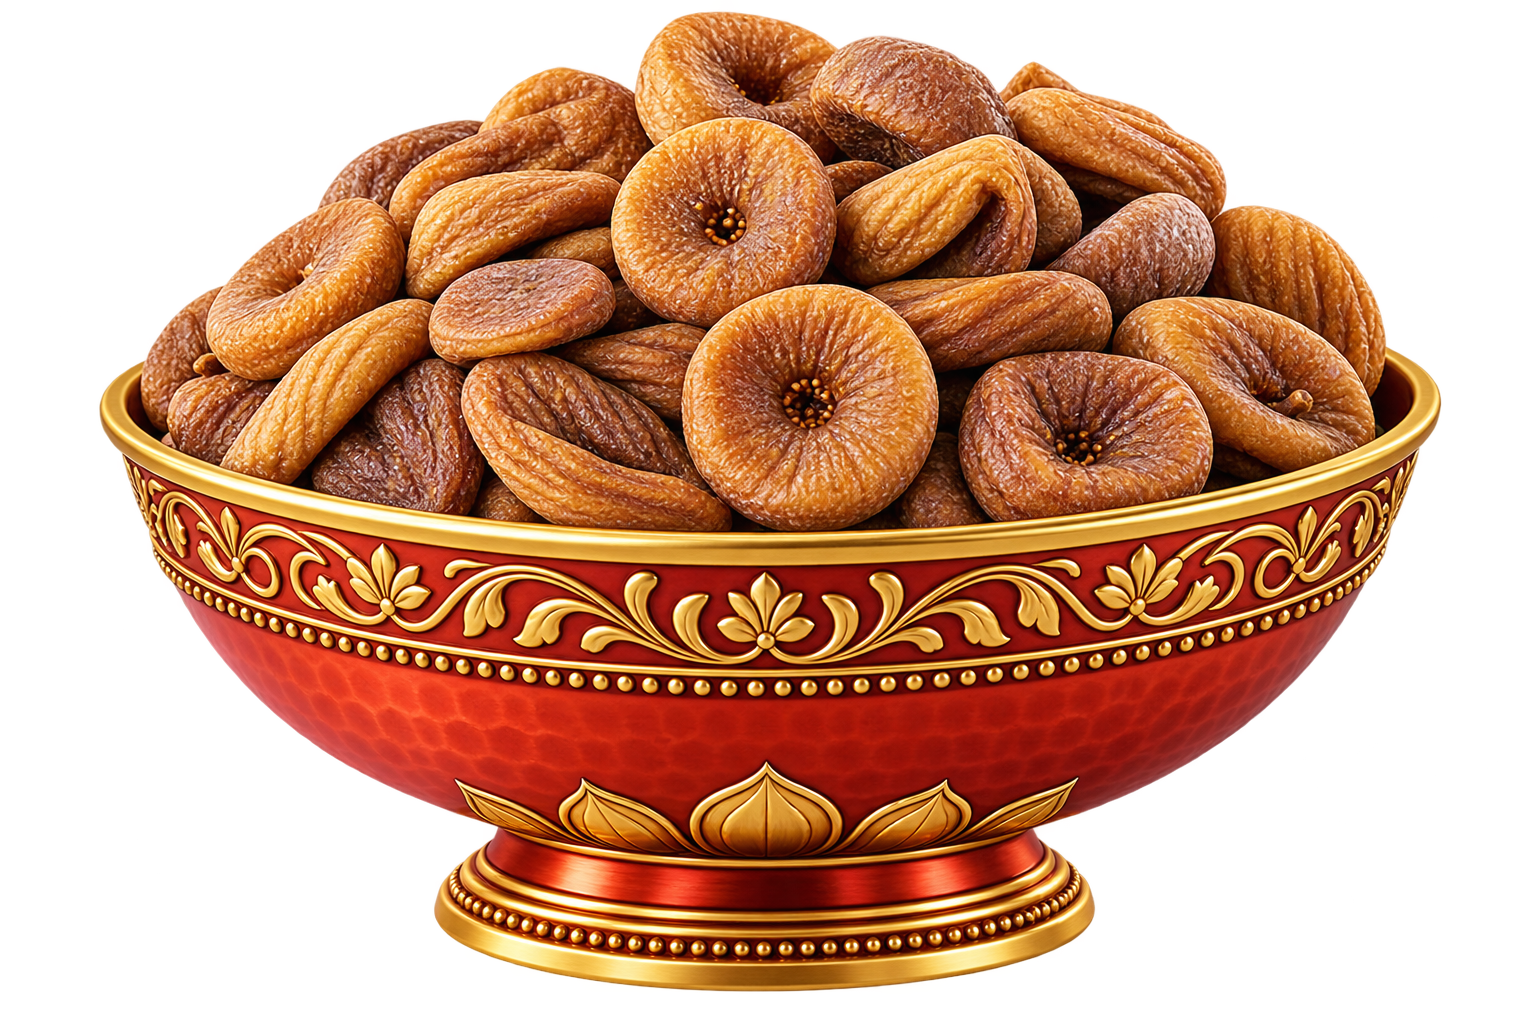
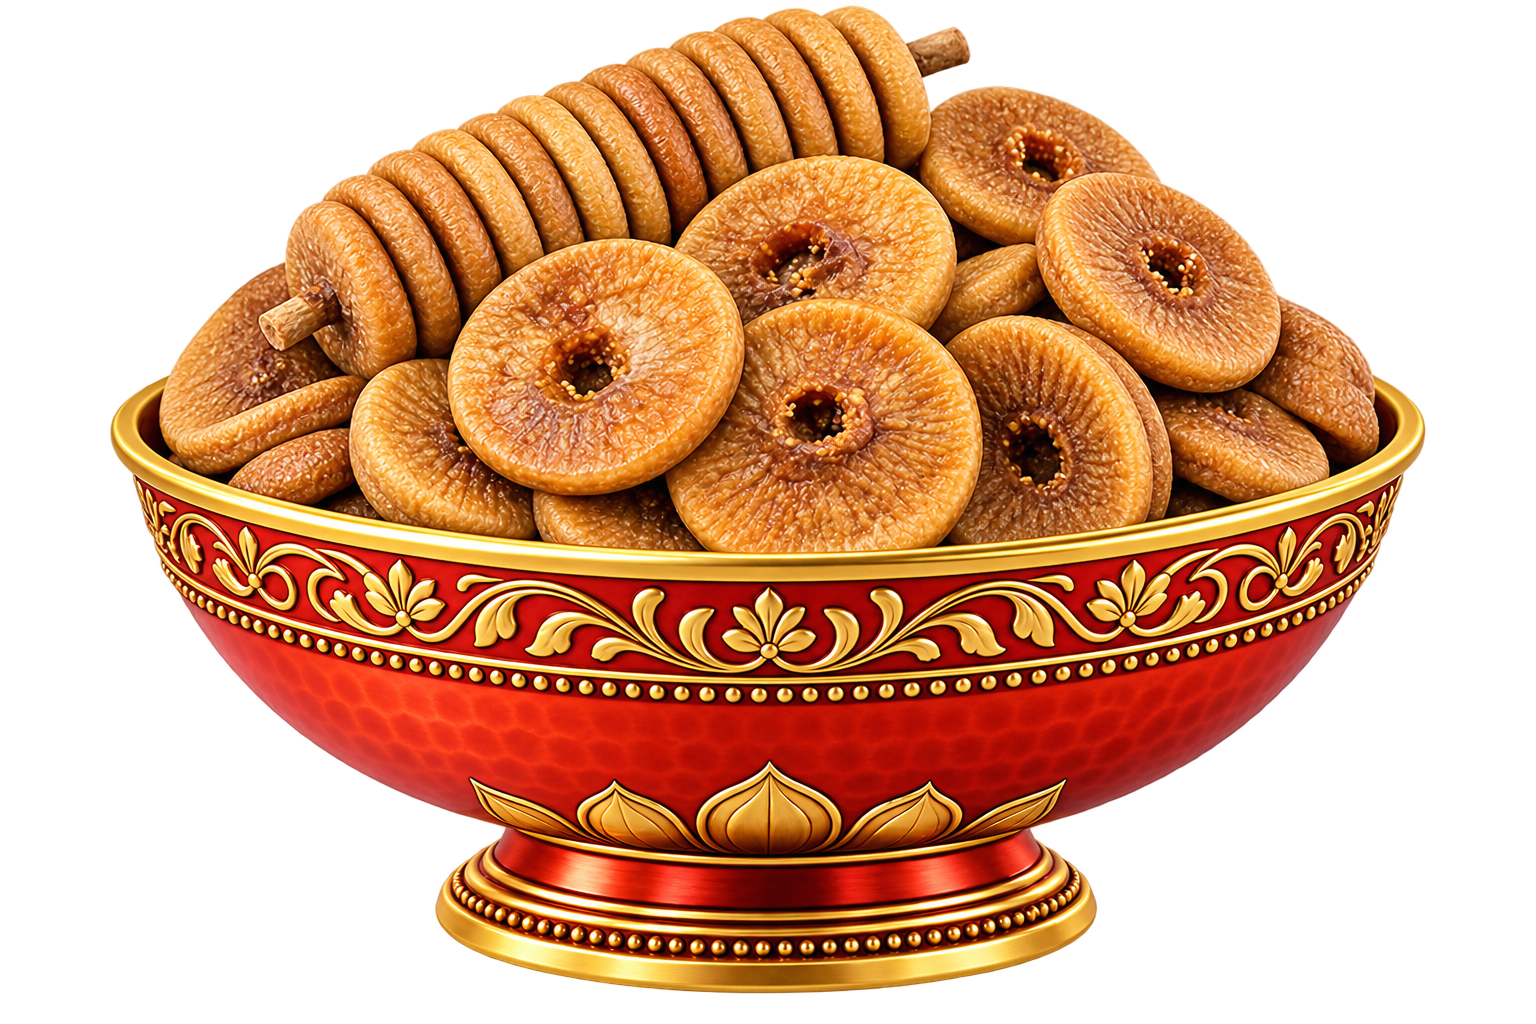
Update project

diff --git a/src/pages/Contact.jsx b/src/pages/Contact.jsx
@@ -1,4 +1,6 @@
 import { useState } from "react";
+import { Link } from "react-router-dom";
+
 import emailjs from "@emailjs/browser";
 import { motion } from "framer-motion";
 import {
@@ -20,6 +22,8 @@ const GREEN_2 = "#0E2E20";
 const GOLD = "#C89B3C";
 const GOLD_LIGHT = "#E4C368";
 const CREAM = "#F4EEE0";
+
+const MotionLink = motion(Link);
 
 const fadeUp = {
   hidden: { opacity: 0, y: 24 },
@@ -53,44 +57,42 @@ const Field = ({ as: Tag = "input", className = "", ...props }) => (
   />
 );
 
-// ✅ FIX: Component function now wraps everything — useState & handleSubmit
-//         must live INSIDE the component, not at module scope.
 const Contact = () => {
   const [status, setStatus] = useState("idle");
 
- const handleSubmit = async (e) => {
-  e.preventDefault();
-  setStatus("sending");
+  const handleSubmit = async (e) => {
+    e.preventDefault();
+    setStatus("sending");
 
-  const form = e.currentTarget;
+    const form = e.currentTarget;
 
-  try {
-    const response = await emailjs.sendForm(
-      "service_fjuvpiv",
-      "template_13no2ik",
-      form,
-      {
-        publicKey: "5gEv7BVsDTnN3b8Uy",
-      }
-    );
+    try {
+      const response = await emailjs.sendForm(
+        "service_fjuvpiv",
+        "template_13no2ik",
+        form,
+        {
+          publicKey: "5gEv7BVsDTnN3b8Uy",
+        }
+      );
 
-    console.log("Email sent:", response.status, response.text);
+      console.log("Email sent:", response.status, response.text);
 
-    setStatus("sent");
-    form.reset();
+      setStatus("sent");
+      form.reset();
 
-    setTimeout(() => {
-      setStatus("idle");
-    }, 3500);
-  } catch (error) {
-    console.error("EmailJS Error:", error);
-    setStatus("error");
+      setTimeout(() => {
+        setStatus("idle");
+      }, 3500);
+    } catch (error) {
+      console.error("EmailJS Error:", error);
+      setStatus("error");
 
-    setTimeout(() => {
-      setStatus("idle");
-    }, 4000);
-  }
-};
+      setTimeout(() => {
+        setStatus("idle");
+      }, 4000);
+    }
+  };
 
   return (
     <>
@@ -102,7 +104,6 @@ const Contact = () => {
           className="absolute inset-0 -z-30 h-full w-full object-cover"
         />
 
-        {/* Directional gradient */}
         <div
           className="absolute inset-0 -z-20"
           style={{
@@ -110,7 +111,6 @@ const Contact = () => {
           }}
         />
 
-        {/* Top/bottom vignette */}
         <div
           className="absolute inset-0 -z-10"
           style={{
@@ -118,7 +118,6 @@ const Contact = () => {
           }}
         />
 
-        {/* Gold glow */}
         <div
           className="pointer-events-none absolute -left-24 top-1/2 -z-10 h-[420px] w-[420px] -translate-y-1/2 rounded-full blur-3xl"
           style={{ backgroundColor: `${GOLD}22` }}
@@ -243,8 +242,6 @@ const Contact = () => {
               <Field name="phone" placeholder="Phone Number" />
             </div>
 
-            {/* ✅ FIX: Removed redundant first item from subjects array.
-                       Using a proper disabled placeholder <option> instead. */}
             <div className="relative mt-4">
               <select
                 required
@@ -293,7 +290,6 @@ const Contact = () => {
               <ArrowRight size={16} className="transition-transform group-hover:translate-x-1" />
             </motion.button>
 
-            {/* ✅ ADDED: Visible feedback messages below button */}
             {status === "sent" && (
               <p className="mt-3 text-sm font-medium" style={{ color: GREEN }}>
                 Thank you! We'll get back to you shortly.
@@ -351,7 +347,7 @@ const Contact = () => {
               </div>
             </div>
 
-            {/* WhatsApp quick-contact strip */}
+            {/* WhatsApp strip */}
             <a
               href={`https://wa.me/${(company?.whatsapp ?? "919000001026").replace(/[^\d]/g, "")}`}
               target="_blank"
@@ -380,14 +376,14 @@ const Contact = () => {
             className="relative overflow-hidden rounded-2xl shadow-sm"
             style={{ height: 420 }}
           >
-          <iframe
-  title="Mydex map"
-  className="absolute inset-0 h-full w-full border-0"
-  src="https://www.google.com/maps/embed?pb=!1m18!1m12!1m3!1d3807.741322865268!2d78.47399229999999!3d17.376176!2m3!1f0!2f0!3f0!3m2!1i1024!2i768!4f13.1!3m3!1m2!1s0x3bcb9780be57533b%3A0xc4dba7a4fdbef564!2s12%2C%20Siddiamber%20Bazar%2C%20Begum%20Bazar%2C%20Afzal%20Gunj%2C%20Hyderabad%2C%20Telangana%20500012!5e0!3m2!1sen!2sin!4v1786618889554!5m2!1sen!2sin"
-  loading="lazy"
-  allowFullScreen
-  referrerPolicy="strict-origin-when-cross-origin"
-/>
+            <iframe
+              title="Mydex map"
+              className="absolute inset-0 h-full w-full border-0"
+              src="https://www.google.com/maps/embed?pb=!1m18!1m12!1m3!1d3807.741322865268!2d78.47399229999999!3d17.376176!2m3!1f0!2f0!3f0!3m2!1i1024!2i768!4f13.1!3m3!1m2!1s0x3bcb9780be57533b%3A0xc4dba7a4fdbef564!2s12%2C%20Siddiamber%20Bazar%2C%20Begum%20Bazar%2C%20Afzal%20Gunj%2C%20Hyderabad%2C%20Telangana%20500012!5e0!3m2!1sen!2sin!4v1786618889554!5m2!1sen!2sin"
+              loading="lazy"
+              allowFullScreen
+              referrerPolicy="strict-origin-when-cross-origin"
+            />
             <motion.div
               initial={{ opacity: 0, x: -24 }}
               whileInView={{ opacity: 1, x: 0 }}
@@ -448,8 +444,9 @@ const Contact = () => {
             </div>
           </div>
 
-          <motion.a
-            href="/get-quote"
+          {/* ✅ FIXED: motion(Link) instead of motion.a — no page reload, no 404 */}
+          <MotionLink
+            to="/get-quote"
             whileHover={{ scale: 1.05 }}
             whileTap={{ scale: 0.96 }}
             className="group inline-flex shrink-0 items-center gap-2 rounded-md px-7 py-3 text-xs font-semibold uppercase tracking-wider text-white"
@@ -457,7 +454,7 @@ const Contact = () => {
           >
             Get a Quote
             <ArrowRight size={16} className="transition-transform group-hover:translate-x-1" />
-          </motion.a>
+          </MotionLink>
         </motion.div>
       </section>
     </>

diff --git a/src/components/Footer.jsx b/src/components/Footer.jsx
@@ -1,37 +1,27 @@
-import { FaEnvelope, FaFacebookF, FaInstagram, FaLinkedinIn, FaPhoneAlt, FaStar } from "react-icons/fa";
+import { FaDownload, FaEnvelope, FaFacebookF, FaInstagram, FaLinkedinIn, FaPhoneAlt, FaStar } from "react-icons/fa";
 import { Link } from "react-router-dom";
 import { motion } from "framer-motion";
 import { company, productCategories } from "../data/siteData";
 
-/* Local HD background image for the footer — replace with your actual asset */
 import footerBg from "../assets/images/footer-bg.png";
-/* Local logo image — replace with your actual logo asset */
 import logo from "../assets/logo.png";
 
-/* 🔧 Social links: Facebook & LinkedIn are the real, live company links.
-   Instagram & the mail icon are left as sensible placeholders — swap
-   Instagram's "#" for the real profile URL whenever you have it. The
-   LinkedIn URL below is the clean profile link (the one you sent was a
-   linkedin.com/authwall redirect with session tracking params, which
-   isn't reliable to hardcode — this is the actual destination it points
-   to). */
 const socialLinks = [
   { Icon: FaFacebookF, href: "https://www.facebook.com/people/Mydex-international/61592850341942/", external: true },
   { Icon: FaLinkedinIn, href: "https://www.linkedin.com/in/mydex-international-434b0b428", external: true },
- {
-  Icon: FaInstagram,
-  href: "https://www.instagram.com/mydex_international?igsh=MWpzYTVyb2lwcmppYw==",
-  external: true,
-},
   {
-  Icon: FaEnvelope,
-  href: "/contact",
-  external: false,
-},
+    Icon: FaInstagram,
+    href: "https://www.instagram.com/mydex_international?igsh=MWpzYTVyb2lwcmppYw==",
+    external: true,
+  },
+  {
+    Icon: FaEnvelope,
+    href: "/contact",
+    external: false,
+  },
 ];
 
 const Footer = () => {
-  // Animation variants
   const containerVariants = {
     hidden: { opacity: 0 },
     visible: {
@@ -123,9 +113,6 @@ const Footer = () => {
         backgroundAttachment: "fixed",
       }}
     >
-      {/* "EST. 1956" watermark — huge, faint, heritage-marking text sitting
-          in the empty background space behind the footer content. Purely
-          decorative, so it's aria-hidden and ignores pointer events. */}
       <motion.p
         aria-hidden="true"
         initial={{ opacity: 0 }}
@@ -139,6 +126,7 @@ const Footer = () => {
 
       {/* Main Footer Content */}
       <div className="container-lux relative z-10 grid gap-10 px-4 py-16 md:grid-cols-2 md:px-8 lg:grid-cols-5">
+
         {/* Brand Section */}
         <motion.div
           className="lg:col-span-2"
@@ -173,7 +161,6 @@ const Footer = () => {
             Global importer & exporter of premium dry fruits, spices, herbs, seeds, pulses and agro commodities.
           </motion.p>
 
-          {/* 5-star rating badge — quick trust signal under the brand blurb */}
           <motion.div
             className="mt-4 flex items-center gap-2"
             variants={linkVariants}
@@ -252,6 +239,28 @@ const Footer = () => {
                 </Link>
               </motion.div>
             ))}
+
+            {/* ✅ Download Brochure Button */}
+            <motion.div
+              variants={linkVariants}
+              custom={5}
+              initial="hidden"
+              whileInView="visible"
+              viewport={{ once: true, amount: 0.3 }}
+              className="pt-2"
+            >
+              <motion.a
+                href="/brochure.pdf"
+                download="Mydex-International-Brochure.pdf"
+                whileHover={{ scale: 1.03 }}
+                whileTap={{ scale: 0.97 }}
+                className="inline-flex items-center gap-2 rounded border border-mydex-gold px-4 py-2 text-xs font-semibold uppercase tracking-wider text-mydex-gold transition hover:bg-mydex-gold hover:text-mydex-green"
+              >
+                <FaDownload size={11} />
+                Download Brochure
+              </motion.a>
+            </motion.div>
+
           </motion.div>
         </motion.div>
 
@@ -374,7 +383,7 @@ const Footer = () => {
         </motion.div>
       </div>
 
-      {/* Bottom Section - Copyright & Credits */}
+      {/* Bottom Section */}
       <motion.div
         className="relative z-10 border-t border-white/10 px-4 py-4 text-xs text-white/60 md:px-8"
         initial={{ opacity: 0 }}

diff --git a/src/pages/AboutPages.jsx b/src/pages/AboutPages.jsx
@@ -540,9 +540,9 @@ export const Overview = () => (
               whileInView={{ opacity: 1, scale: 1 }}
               viewport={{ once: true, amount: 0.6 }}
               transition={{ duration: 0.6, delay: 0.6, ease: "easeOut" }}
-              className="absolute -bottom-2 left-1/2 z-30 flex h-24 w-24 -translate-x-1/2 flex-col items-center justify-center rounded-full border border-mydex-gold bg-mydex-green text-center text-[10px] uppercase tracking-widest text-mydex-gold shadow-gold leading-snug"
+              // className="absolute -bottom-2 left-1/2 z-30 flex h-24 w-24 -translate-x-1/2 flex-col items-center justify-center rounded-full border border-mydex-gold bg-mydex-green text-center text-[10px] uppercase tracking-widest text-mydex-gold shadow-gold leading-snug"
             >
-              Est.<br />1956<br />Unjha
+          
             </motion.div>
 
             {/* 🆕 Teeno stat tags ab ek row me, image ke neeche */}
@@ -597,7 +597,7 @@ export const Overview = () => (
                 },
                {
   label: "Hyderabad Office — Est. 1990",
-  desc: "Established our Hyderabad office in 1990, strengthening our business presence and expanding our operations in the Pan Indian markets and Every of India.",
+  desc: "Established our Hyderabad office in 1990, strengthening our business presence and expanding our operations in the Pan Indian markets and Every edge of India.",
 },
 
  {
@@ -886,9 +886,9 @@ export const GlobalNetwork = () => (
         <div className="grid gap-6 md:grid-cols-4">
           {[
             { n: 30,   s: "+", l: "Countries Served" },
-            { n: 1000, s: "+", l: "Happy Clients" },
-            { n: 500,  s: "+", l: "Products Exported" },
-            { n: 20,   s: "+", l: "Years Experience" },
+            { n: 470, s: "+", l: "Happy Clients" },
+            { n: 72,  s: "+", l: "Products Exported" },
+            { n: 70,   s: "+", l: "Years Experience" },
           ].map((x) => (
             <div key={x.l} className="rounded-xl bg-mydex-green p-6 text-center text-white">
               <p className="font-serif text-4xl text-mydex-gold">

diff --git a/src/pages/GetQuote.jsx b/src/pages/GetQuote.jsx
@@ -4,6 +4,11 @@ import Button from "../components/ui/Button";
 import PageHero from "../components/ui/PageHero";
 import { productCategories } from "../data/siteData";
 
+/* Local background image for the Get Quote page hero.
+   Put your real banner photo at this exact path/filename:
+   src/assets/images/get-quote-hero.png */
+import quoteHeroBg from "../assets/images/get-quote-hero.png";
+
 /* =========================================================
    WATERMARK
 ========================================================= */
@@ -115,11 +120,15 @@ const GetQuote = () => {
     <>
       {/* ===================================================
           PAGE HERO
+          `image` prop passed through — PageHero renders it as a
+          full-bleed background with a mydex-green/70 overlay and
+          the wavy bottom border, matching the Home hero style.
       =================================================== */}
 
       <PageHero
         title="Request a Custom Quote"
         subtitle="Share product, quantity and destination — our trade team will respond promptly."
+        image={quoteHeroBg}
       />
 
       {/* ===================================================
